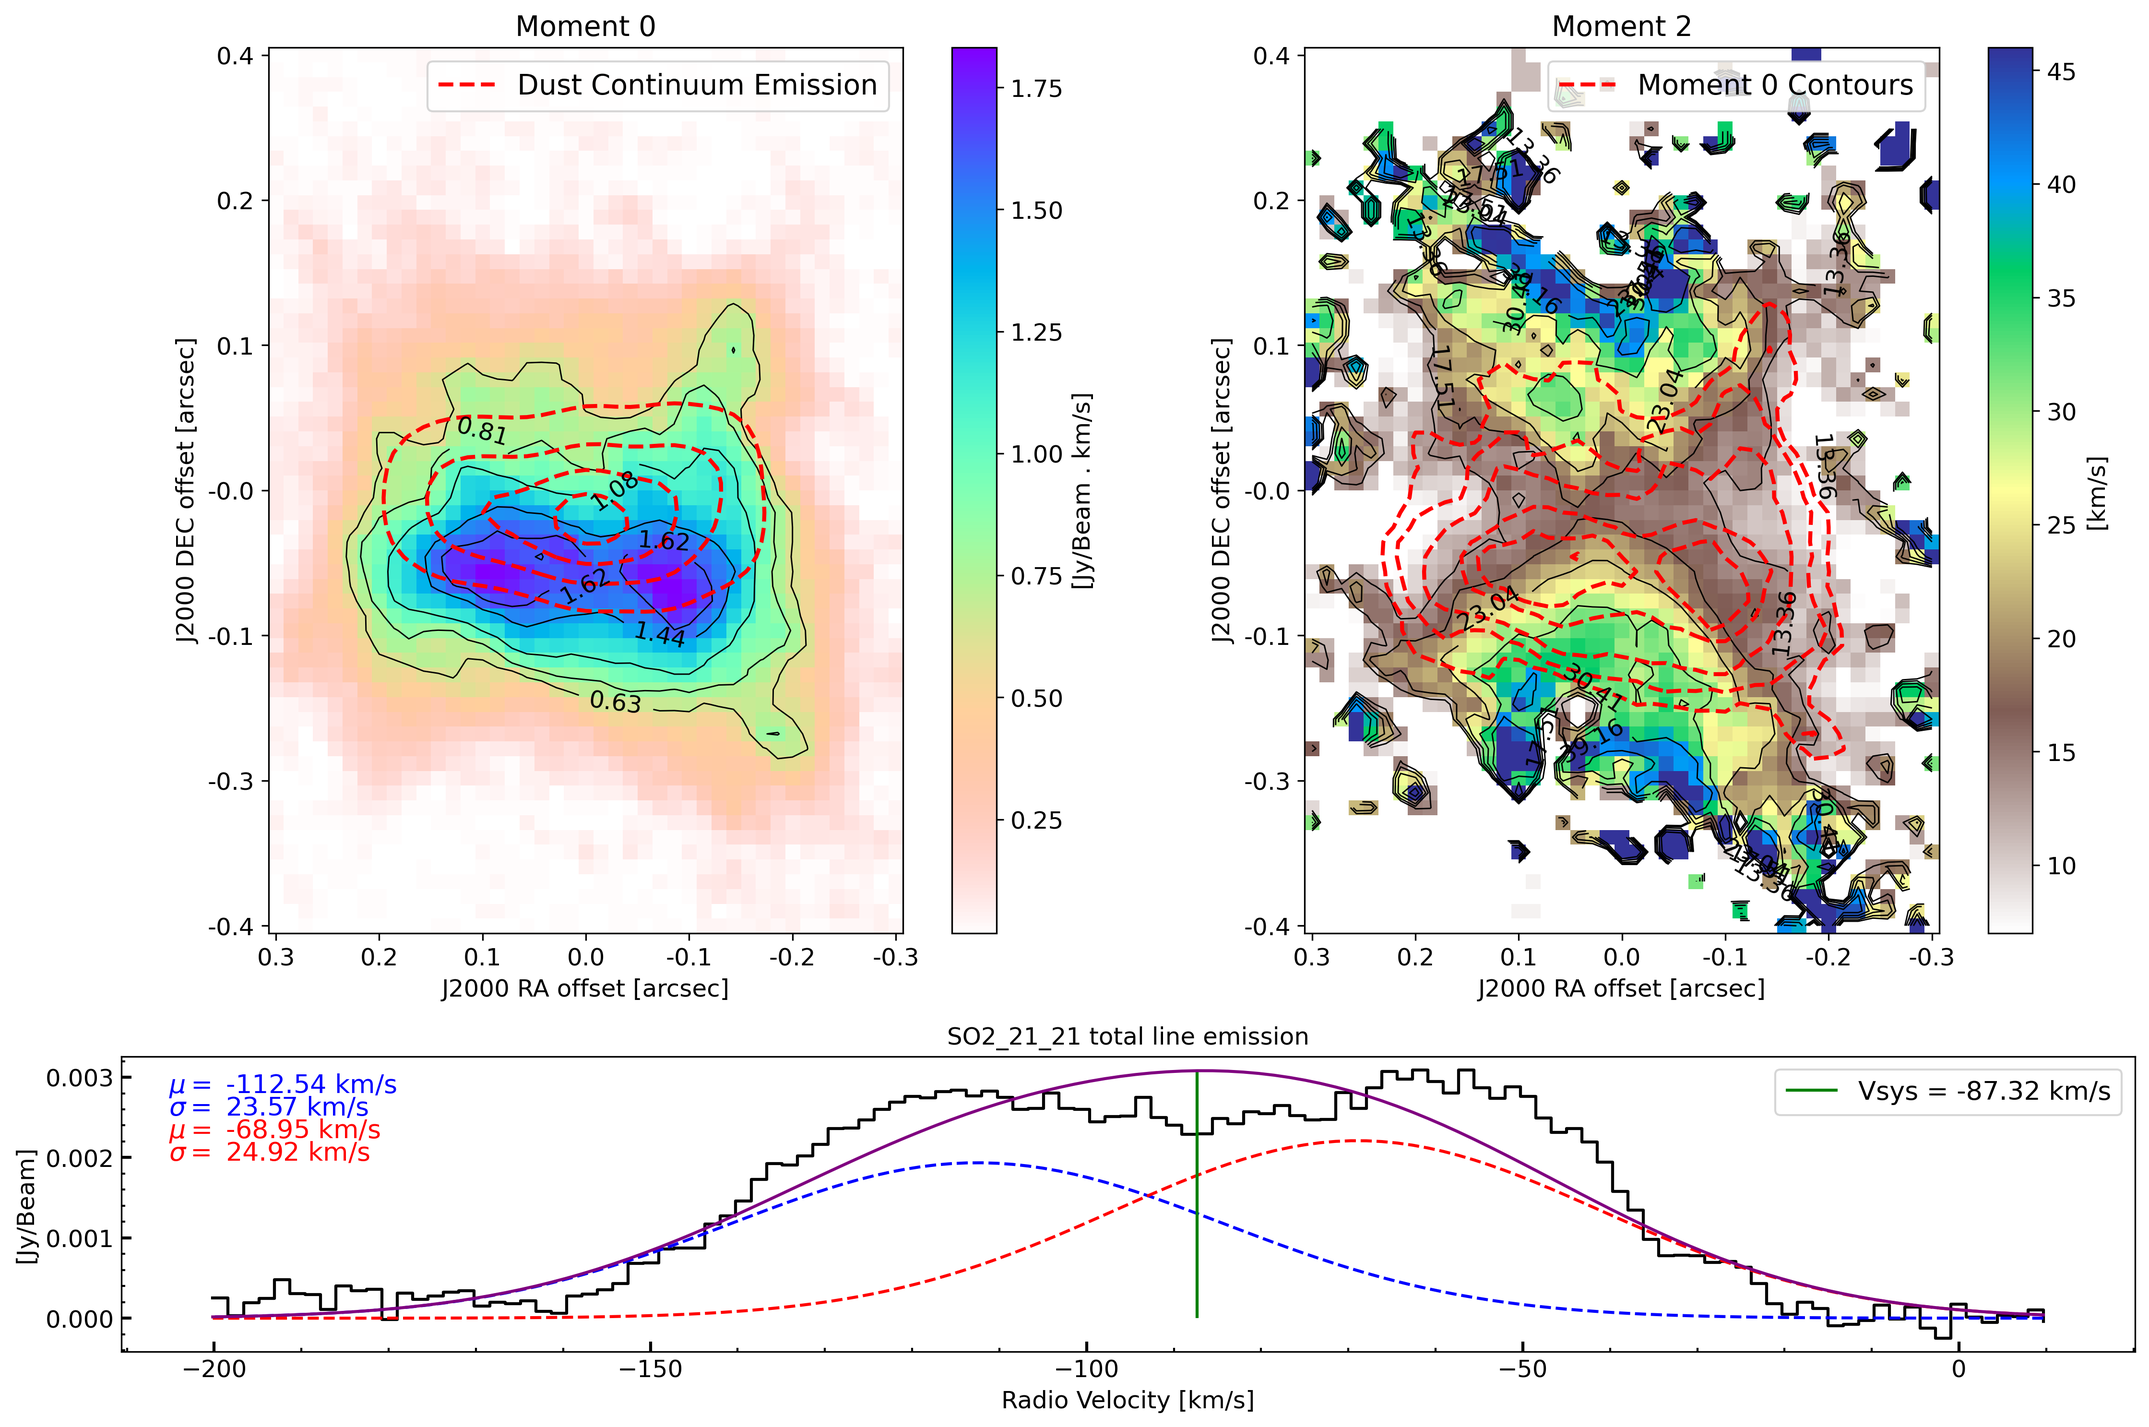
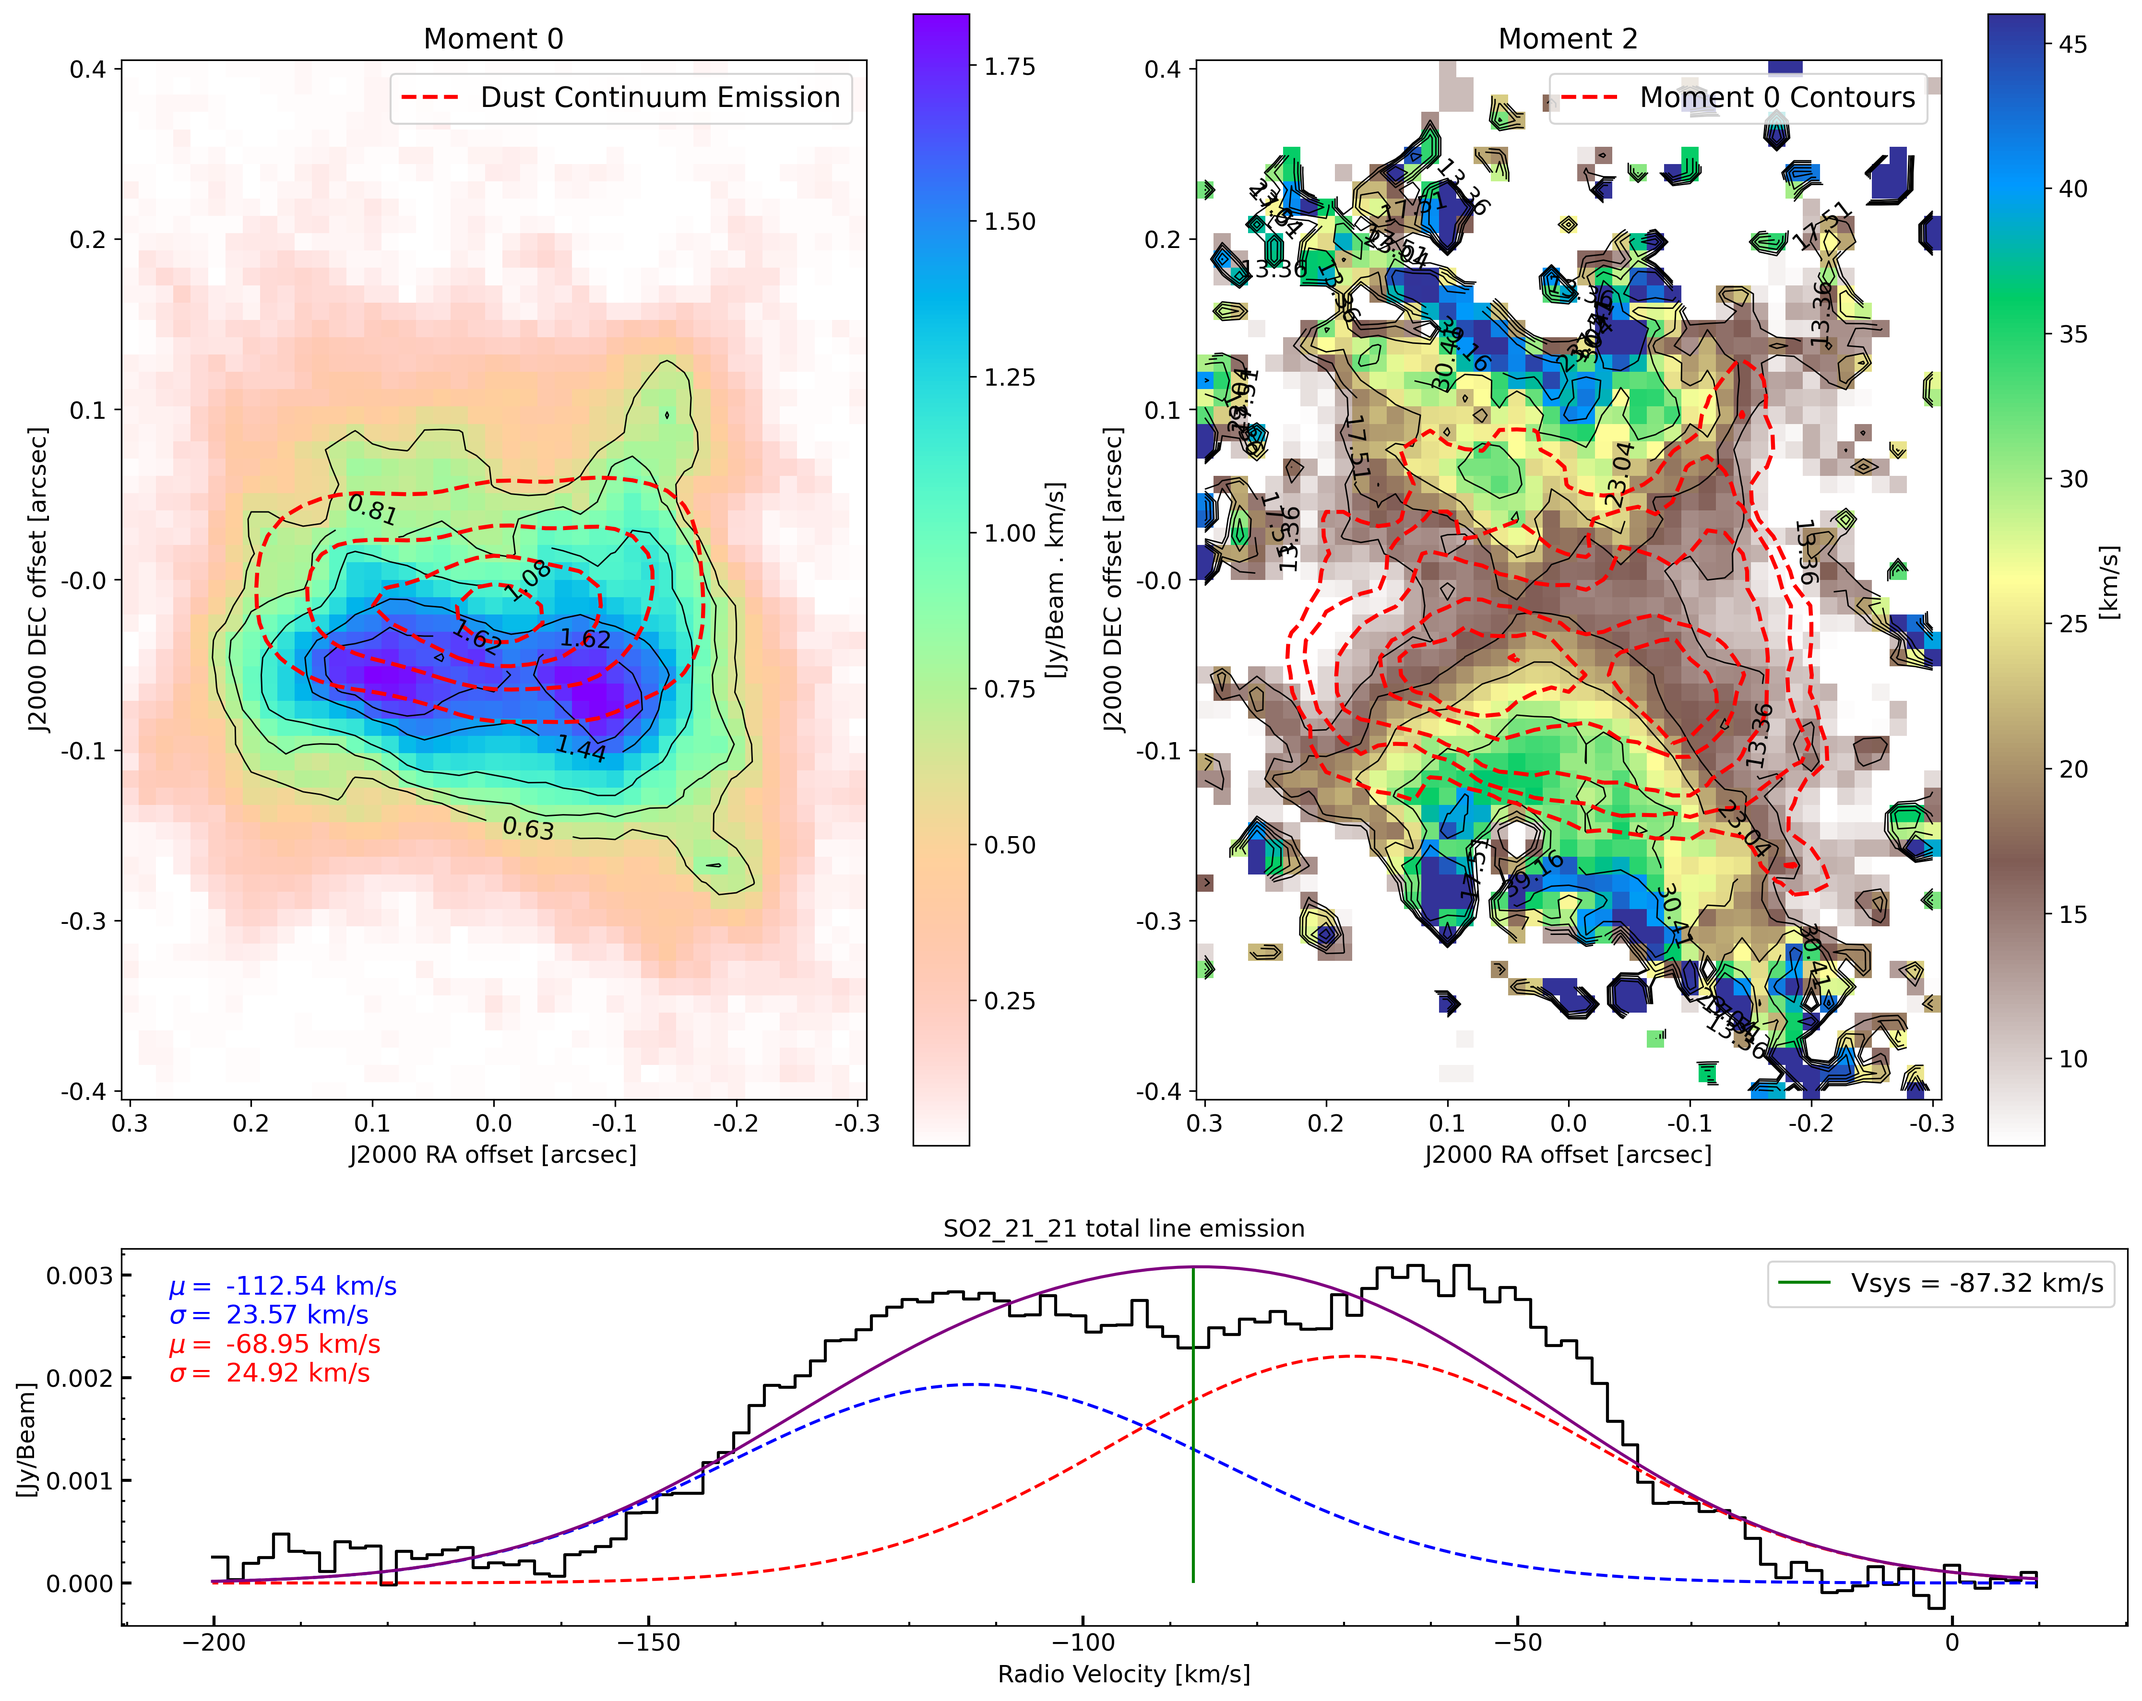
mejora graficos momentos y linea espectral

diff --git a/IRAS15445_recortados/Dash_visualizador/Figura13CO.py b/IRAS15445_recortados/Dash_visualizador/Figura13CO.py
@@ -44,7 +44,7 @@ continuum = SpectralCube.read(path_cont)
 continuum  = continuum[:,220:300,225:285]
 
 box = [220,225,300,285]
-channel=[75,240]
+channel=[85,230]
 cube, Molines_A_df, coord = ctdf.Cube_to_df(path, box)
 Molines_A_df['mean'] = Molines_A_df.sum(axis=1)/4800
 
@@ -83,15 +83,13 @@ for i in range(fade_start, n_colors):
 new_cmap = LinearSegmentedColormap.from_list('rainbow_fade_red', colors)
 # -----------------------------------------------------------------------------------------
 
-
-plt.figure(figsize=(15, 10))
+plt.figure(figsize=(15, 12))
 
 # Configuración de la cuadrícula
 gs = plt.GridSpec(2, 2, height_ratios=[3, 1])  # 2 filas, 2 columnas; la primera fila tiene dos gráficos, la segunda solo uno.
 
-plt.figure(figsize=(8,8))
 # Primer gráfico (Moment 0)
-ax1 = plt.subplot()  # Primer gráfico en la primera columna
+ax1 = plt.subplot(gs[0, 0])  # Primer gráfico en la primera columna
 im1 = ax1.imshow(m0.value, origin='lower', cmap=new_cmap.reversed())
 
 # Cambiar los nombres de los ejes (usar x e y)
@@ -119,8 +117,6 @@ cont1 = ax1.contour(continuum[0].value, levels=np.array([0.3, 0.5, 0.7, 0.9, 1])
 dust_contour_legend = Line2D([], [], color='red', linestyle='--', linewidth=2, label='Dust Continuum Emission')
 ax1.legend(handles=[dust_contour_legend], fontsize=14)
 
-output_filename = '13CO_moment0.png'
-plt.savefig(output_filename, dpi=300, bbox_inches='tight')  # 'dpi=300' aumenta la resolución
 # Segundo gráfico (Moment 2)
 ax2 = plt.subplot(gs[0, 1])  # Segundo gráfico en la segunda columna
 m2_escalar = m2.value * 1.9
@@ -151,8 +147,11 @@ cont2 = ax2.contour(m0.value, levels=np.array([0.4, 0.6, 0.8, 0.94]) * round(np.
 dust_contour_legend = Line2D([], [], color='red', linestyle='--', linewidth=2, label='Moment 0 Contours')
 ax2.legend(handles=[dust_contour_legend], fontsize=14)
 
+
+plt.figure(figsize=(15,5))
 # Tercer gráfico (gráfico adicional cubriendo toda la segunda fila)
-ax3 = plt.subplot(gs[1, :])  # Un solo gráfico que cubre ambas columnas en la segunda fila
+#ax3 = plt.subplot(gs[1, :])  # Un solo gráfico que cubre ambas columnas en la segunda fila
+ax3 = plt.subplot()
 ax3.step(Molines_A_df.sum(axis=1).index[channel[0]:channel[1]],Molines_A_df.sum(axis=1).iloc[channel[0]:channel[1]]/4800,color='black')
 ax3.set_title('13CO total line emission', fontsize=12)
 ax3.set_xlabel('Radio Velocity [km/s]',fontsize=12)
@@ -188,5 +187,5 @@ ax3.legend(fontsize=13)
 # Ajustar el layout para evitar que los gráficos se superpongan
 plt.tight_layout()
 
-output_filename = '13CO.png'  # Cambia la extensión si prefieres otro formato como .pdf, .svg, etc.
+output_filename = '13COline.png'  # Cambia la extensión si prefieres otro formato como .pdf, .svg, etc.
 plt.savefig(output_filename, dpi=300, bbox_inches='tight')  # 'dpi=300' aumenta la resolución

diff --git a/IRAS15445_recortados/Dash_visualizador/cubo_plots.py b/IRAS15445_recortados/Dash_visualizador/cubo_plots.py
@@ -54,7 +54,7 @@ for i in range(104,198):
     plt.savefig('/home/marcela/Tesis Marcela/IRAS15445_recortados/anim_13COline/'+str(i),dpi=300)
     
 
-x_z_projection = np.mean(cube, axis=-2)  # Alternativamente: np.mean(cube, axis=0)
+x_z_projection = np.mean(cube, axis=2)  # Alternativamente: np.mean(cube, axis=0)
 z_tick_labels = np.round(Molines_A_df.index[::40]).astype(int)
 
 # Vista desde arriba 
@@ -62,17 +62,17 @@ z_tick_labels = np.round(Molines_A_df.index[::40]).astype(int)
 plt.figure(figsize=(10,5))
 im = plt.imshow(x_z_projection.T, origin='lower',aspect='auto')
 plt.gca().invert_xaxis()
-plt.yticks(ticks=np.arange(len(y_tick_labels))*10, labels=np.round(y_tick_labels, 2),fontsize=12)
+plt.yticks(ticks=np.arange(len(y_tick_labels))*9, labels=np.round(y_tick_labels, 2),fontsize=12)
 plt.xticks(ticks=np.arange(len(z_tick_labels))*40, labels=np.round(z_tick_labels, 2),fontsize=12)
 
 plt.xlabel('Radio Velocity [km/s]',fontsize=14)
-plt.ylabel('J2000 RA offset [arcsec]',fontsize=14)
+plt.ylabel('J2000 DEC offset [arcsec]',fontsize=14)
 
 cbar = plt.colorbar(im)
 cbar.set_label('Intensidad [Jy/Beam]', fontsize=15) 
 cbar.ax.tick_params(labelsize=14)
 
-plt.savefig('/home/marcela/Tesis Marcela/IRAS15445_recortados/Vistatoroidal.png',dpi=300)
+plt.savefig('/home/marcela/Tesis Marcela/IRAS15445_recortados/Vistalateral.png',dpi=300)
 
 
 

diff --git a/IRAS15445_recortados/Dash_visualizador/FiguraSO2_4_3.py b/IRAS15445_recortados/Dash_visualizador/FiguraSO2_4_3.py
@@ -84,14 +84,14 @@ for i in range(fade_start, n_colors):
 new_cmap = LinearSegmentedColormap.from_list('rainbow_fade_red', colors)
 # -----------------------------------------------------------------------------------------
 
-plt.figure(figsize=(15, 10))
+plt.figure(figsize=(15, 12))
 
 # Configuración de la cuadrícula
 gs = plt.GridSpec(2, 2, height_ratios=[3, 1])  # 2 filas, 2 columnas; la primera fila tiene dos gráficos, la segunda solo uno.
-plt.figure(figsize=(8,8))
+
 
 # Primer gráfico (Moment 0)
-ax1 = plt.subplot() # Primer gráfico en la primera columna
+ax1 = plt.subplot(gs[0, 0]) # Primer gráfico en la primera columna
 im1 = ax1.imshow(m0.value, origin='lower', cmap=new_cmap.reversed())
 
 # Cambiar los nombres de los ejes (usar x e y)
@@ -119,8 +119,6 @@ cont1 = ax1.contour(continuum[0].value, levels=np.array([0.3, 0.5, 0.7, 0.9, 1])
 dust_contour_legend = Line2D([], [], color='red', linestyle='--', linewidth=2, label='Dust Continuum Emission')
 ax1.legend(handles=[dust_contour_legend], fontsize=14)
 
-output_filename = 'SO2_4_3_moment0.png'
-plt.savefig(output_filename, dpi=300, bbox_inches='tight')  # 'dpi=300' aumenta la resolución
 # Segundo gráfico (Moment 2)
 ax2 = plt.subplot(gs[0, 1])  # Segundo gráfico en la segunda columna
 m2_escalar = m2.value * 1.9
